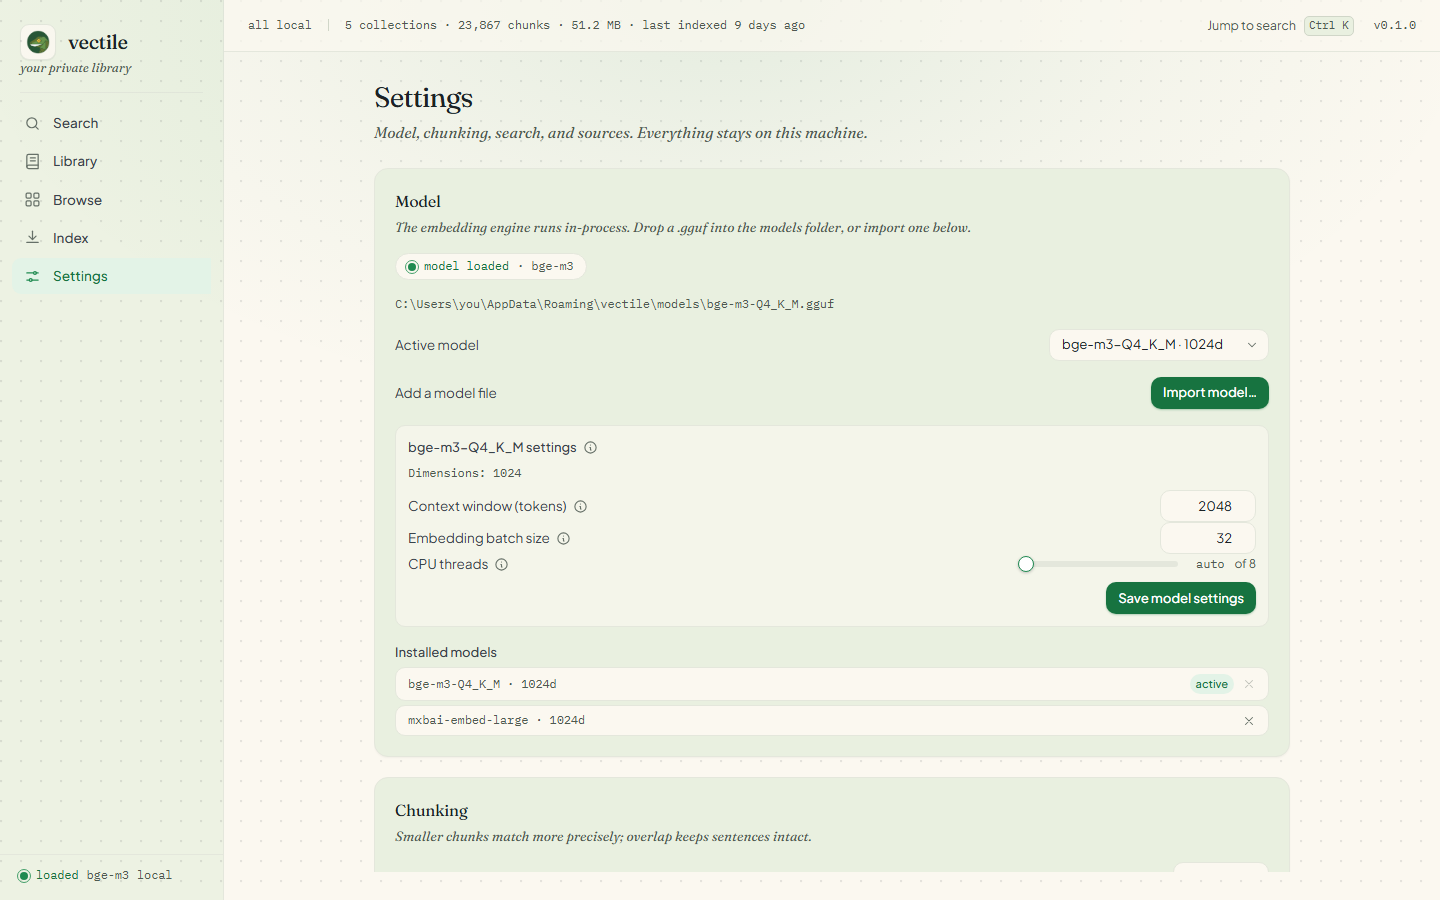
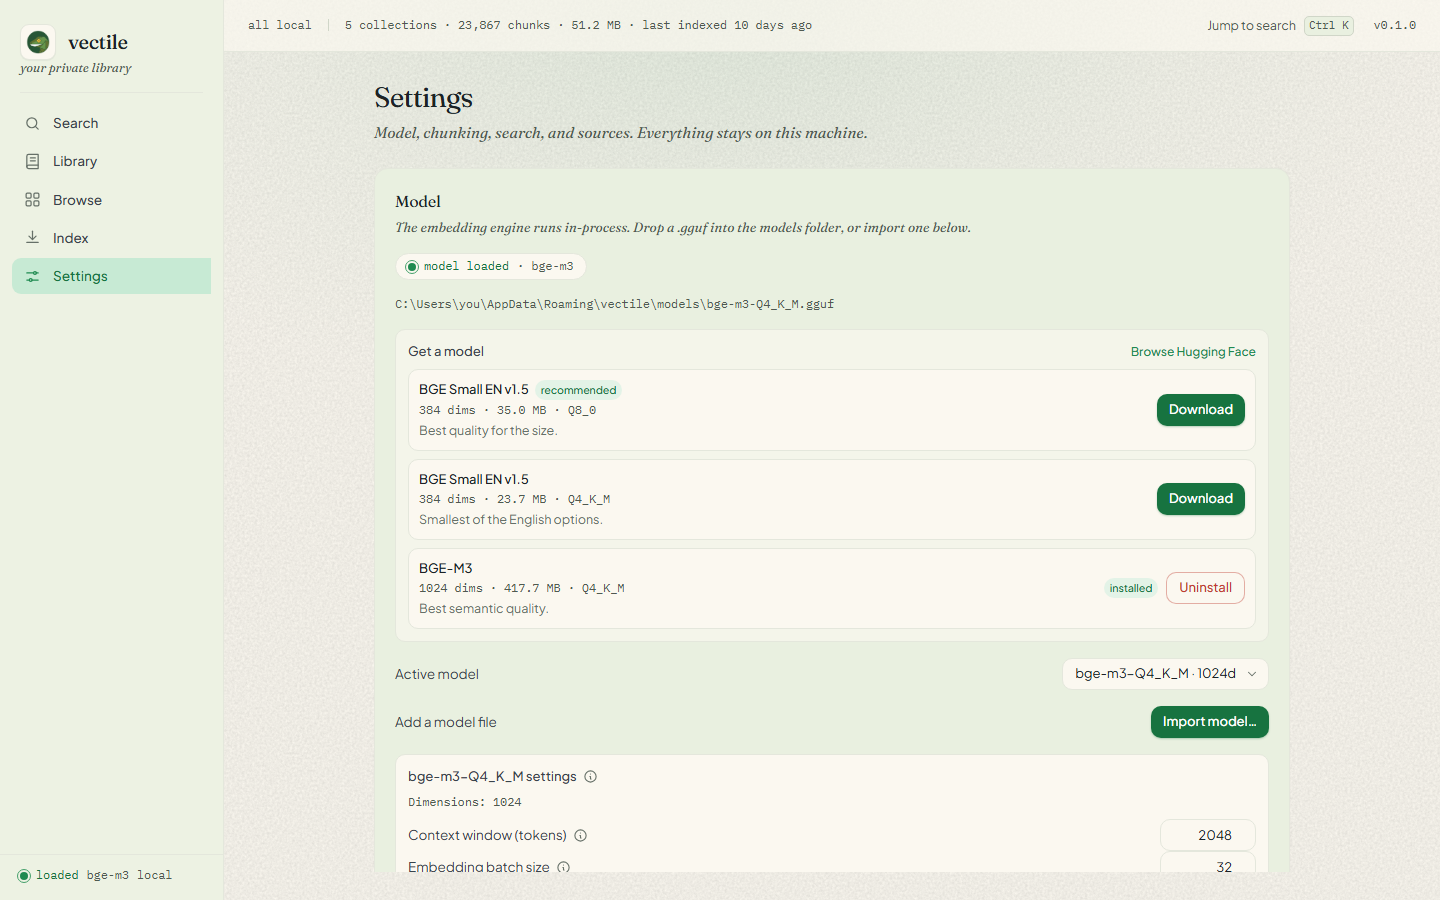
feat: update README for clarity on embedding model options and adjust NoiseTexture opacity

diff --git a/frontend/src/components/ui/noise-texture.tsx b/frontend/src/components/ui/noise-texture.tsx
@@ -22,7 +22,7 @@ export function NoiseTexture(props: NoiseTextureProps) {
   const { frequency = 0.4, octaves = 6, slope = 0.15, noiseOpacity = 0.6 } = props;
   return (
     <svg
-      class={`pointer-events-none absolute inset-0 z-0 h-full w-full select-none opacity-50 ${props.class ?? ""}`}
+      class={`pointer-events-none absolute inset-0 z-0 h-full w-full select-none opacity-25 ${props.class ?? ""}`}
       xmlns="http://www.w3.org/2000/svg"
       aria-hidden="true"
     >

diff --git a/README.md b/README.md
@@ -54,7 +54,7 @@ Screenshots show sample data.
   <tr>
     <td><img src="docs/screenshots/library.png" alt="Library view: collections with sources and chunk counts" width="100%"></td>
     <td><img src="docs/screenshots/browse.png" alt="Browse view: a file tree of collections, files, and chunks with a preview pane" width="100%"></td>
-    <td><img src="docs/screenshots/settings.png" alt="Settings view: model, chunking, and search options" width="100%"></td>
+    <td><img src="docs/screenshots/settings.png" alt="Settings view: download an embedding model, chunking, and search options" width="100%"></td>
   </tr>
 </table>
 
@@ -92,14 +92,14 @@ task package      # package an installer for the current OS
 
 ### Installing the model
 
-The app never downloads an embedding model. Drop a `.gguf` file into the `models/` folder inside the app data directory, or import one from Settings (a native file dialog copies it into `models/`). The default model is bge-m3.
+Drop a `.gguf` file into the `models/` folder inside the app data directory, import one from Settings (a native file dialog copies it into `models/`), or grab one from the curated catalog right in the app — Settings → Model → **Get a model** downloads an embedding model with a click, with a live progress bar. The default model is bge-m3.
 
 ## Quick start
 
 On a fresh install, a short tour walks you through it: add a folder, index it, then search.
 
 1. Launch vectile.
-2. Import an embedding model in Settings, or drop a `.gguf` into `models/`.
+2. Download or import an embedding model in Settings, or drop a `.gguf` into `models/`.
 3. Add sources in Settings: Obsidian vaults, project folders, code repositories, Calibre libraries.
 4. Open the Index view and index a collection, or everything at once. Unchanged files are skipped, so re-indexing is fast.
 5. Press ⌘K / Ctrl K and search.
@@ -112,7 +112,7 @@ Five views, keyboard-first:
 - **Library**: every collection with its file and chunk counts and the last time it was indexed; expand one to list its files, and remove a source or its documents in place.
 - **Browse**: a file tree of collections, files, and chunks, with a preview pane. Select chunks to delete them, or remove a whole library.
 - **Index**: run "Index new" (only changed files) or "Re-index all" (re-embed everything) per collection, or index all collections at once, with live progress.
-- **Settings**: sources, model, chunking, search defaults, auto-reindex, start-on-login, Vexter (the sidebar mascot), and a Connect section that runs a local MCP server for AI assistants.
+- **Settings**: sources, model (download an embedding model from the curated catalog, or import your own), chunking, search defaults, auto-reindex, start-on-login, Vexter (the sidebar mascot), and a Connect section that runs a local MCP server for AI assistants.
 
 The sidebar shows the model state: idle, loaded, or failed. If the model file is missing or corrupt, vector search falls back to full-text search, so exact-word matches still work.
 
